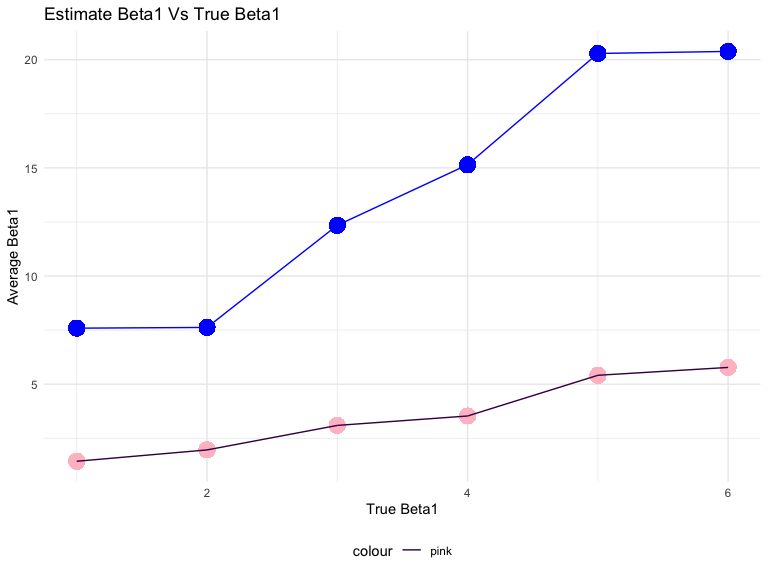
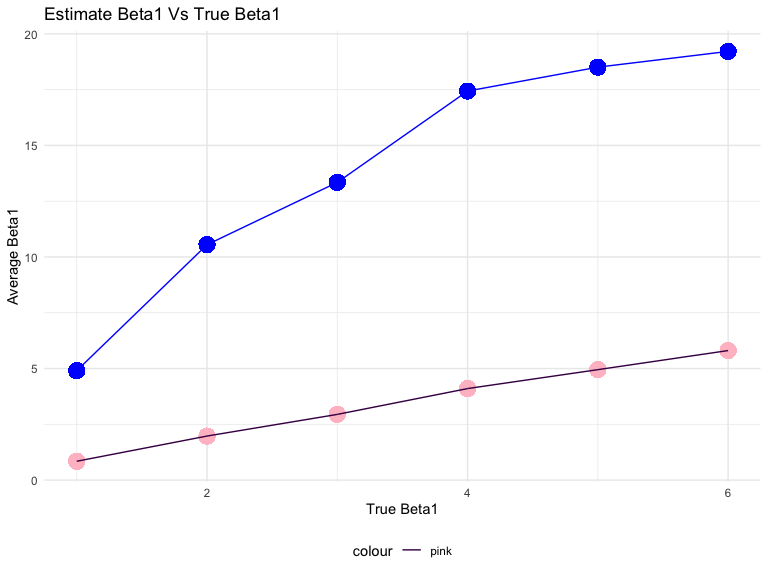
n=10000

diff --git a/p8105_hw5_ys3298.md b/p8105_hw5_ys3298.md
@@ -124,7 +124,7 @@ model = function(beta1 = 0) {
   return(tibble(beta1 = pull(ls_fit,estimate)[[2]], p = pull(ls_fit,p.value)[[2]]))
 }
 
-n = 1000
+n = 10000
 
 sim_results = 
   rerun(n, model(0)) %>%  ## rerun
